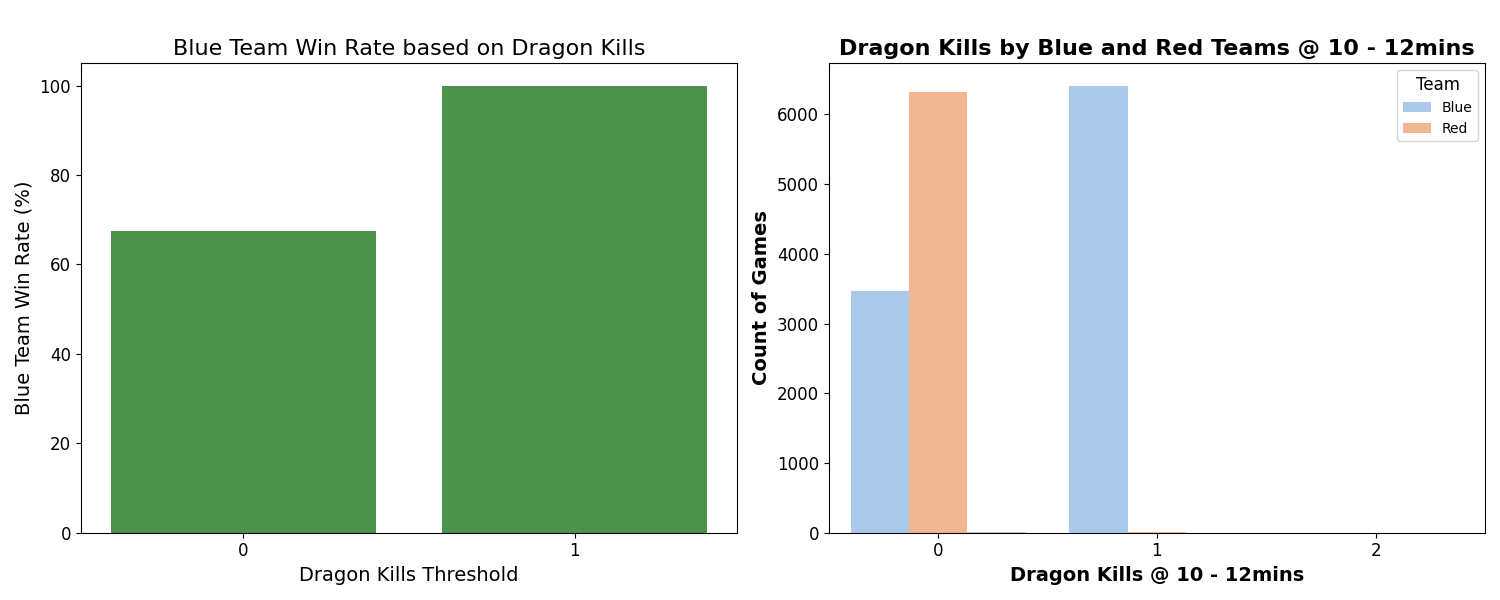
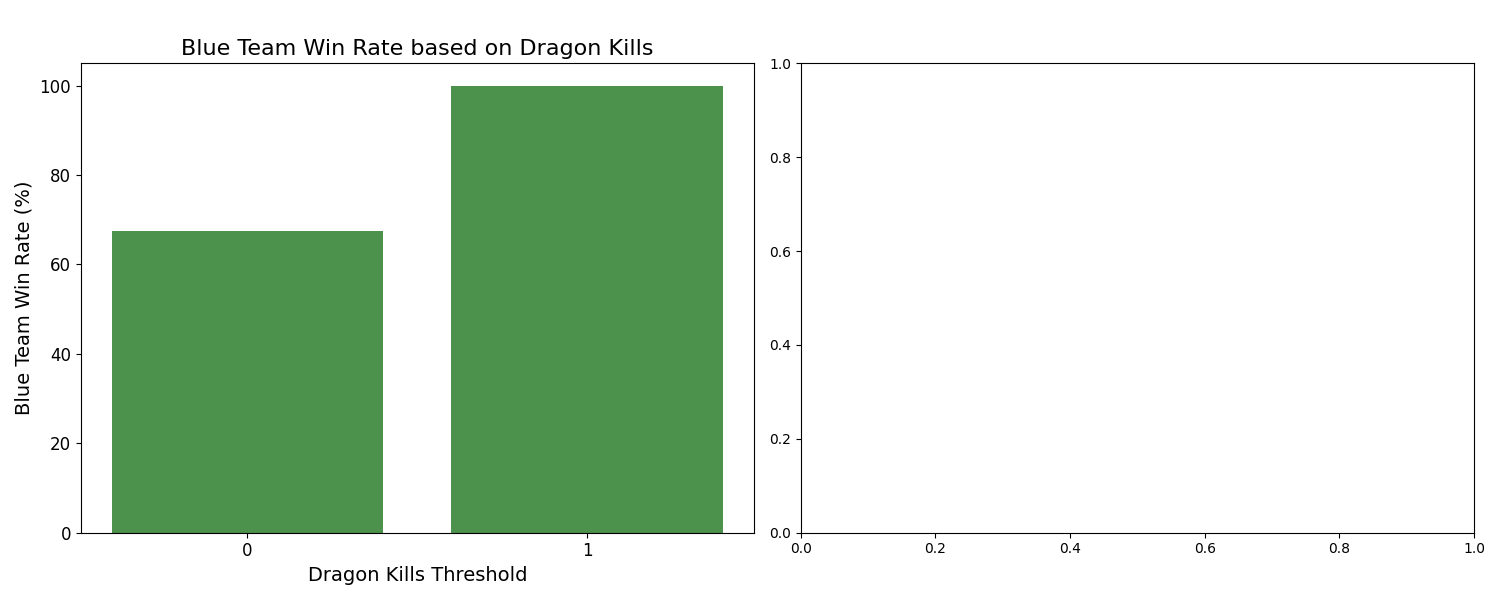
project complete

diff --git a/analyze_data.py b/analyze_data.py
@@ -5,19 +5,43 @@ import matplotlib.pyplot as plt
 import matplotlib.ticker as mtick
 import seaborn as sns
 from statsmodels.nonparametric.smoothers_lowess import lowess
+import altair as alt
 # Load the dataset
 #data = pd.read_csv('datasets/timeBased/full_data_40.csv')
 data = pd.read_csv('22-375minof40%.csv')
 
 # plots of red team vs blue team
 def RedVsBlue():
-    # Histogram Count for 'blueTotalGold' and 'redTotalGold'
     
-    plt.figure(figsize=(16, 8))
-    gs = gridspec.GridSpec(2, 2, width_ratios=[2, 2], height_ratios=[2, 2])
+    # Define the thresholds (e.g., starting from 0 and increasing by 200 for both teams)
+    thresholds = range(-7000, 9000, 600)
+
+    # Initialize lists to store win rates and corresponding thresholds for both blue and red teams
+    blue_win_rates = []
+    red_win_rates = []
+    gold_diffs = []
+
+    # Calculate win rates and gold differences for each threshold
+    for threshold in thresholds:
+        blue_condition = data['GoldDiff'] > threshold
+        red_condition = data['GoldDiff'] < -threshold  # Considering negative gold differences for the red team
+        blue_win_rate = data[blue_condition]['blueWin'].mean() * 100
+        red_win_rate = data[red_condition]['redWin'].mean() * 100
+        blue_win_rates.append(blue_win_rate)
+        red_win_rates.append(red_win_rate)
+        gold_diffs.append(threshold)
+
+    # Create DataFrames from the lists
+    blue_data_for_line_plot = pd.DataFrame({'GoldDiff': gold_diffs, 'BlueWinRate': blue_win_rates})
+    red_data_for_line_plot = pd.DataFrame({'GoldDiff': gold_diffs, 'RedWinRate': red_win_rates})
+
+
+        # Histogram Count for 'blueTotalGold' and 'redTotalGold'
+    plt.figure(figsize=(16, 12))
+    gs = gridspec.GridSpec(3, 2, width_ratios=[2, 2], height_ratios=[2, 2, 2])
 
     # Subplot for 'blueTotalGold'
-    plt.subplot(gs[0])
+    plt.subplot(gs[0, 0])
     plt.hist(x=data['blueTotalGold'], bins=80, color='skyblue', edgecolor='black')
     plt.yticks(fontsize=14)
     plt.xticks(fontsize=14)
@@ -26,24 +50,44 @@ def RedVsBlue():
     plt.title('Histogram of Blue Total Gold @ 10 - 12mins', fontsize=16, fontweight='bold')
 
     # Subplot for 'redTotalGold'
-    plt.subplot(gs[1])
+    plt.subplot(gs[0, 1])
     plt.hist(x=data['redTotalGold'], bins=80, color='lightcoral', edgecolor='black')
     plt.yticks(fontsize=14)
     plt.xticks(fontsize=14)
     plt.xlabel('Red Total Gold @ 10 - 12mins', fontsize=14)
     plt.ylabel('Count of Games', fontsize=14)
     plt.title('Histogram of Red Total Gold @ 10 - 12mins', fontsize=16, fontweight='bold')
-    
+
     # Scatter plot for Gold
-    plt.subplot(gs[2:])
+    plt.subplot(gs[1, :])
     sns.set_palette("deep")
     sns.scatterplot(x='blueTotalGold', y='redTotalGold', hue='blueWin', data=data, size='blueWin', sizes=[50, 150])
     plt.title('Blue vs. Red in Gold @ 10 - 12mins', fontsize=18, fontweight='bold')
     plt.xlabel('Blue Team Total Gold', fontsize=16)
     plt.ylabel('Red Team Total Gold', fontsize=16)
     plt.legend(title='Team', title_fontsize='12', loc='upper right', labels=['Blue', 'Red'])
-    plt.tight_layout()  # Adjust layout to prevent overlapping
-    plt.savefig('BlueVsRedGold.png')
+
+    # Line plot for blue team
+    plt.subplot(gs[2, 0])
+    sns.lineplot(x='GoldDiff', y='BlueWinRate', marker='o', data=blue_data_for_line_plot, color='blue')
+    plt.title('Blue Team Win Rates based on Gold Difference', fontsize=16)
+    plt.xlabel('Gold Difference', fontsize=14)
+    plt.ylabel('Blue Team Win Rate (%)', fontsize=14)
+    plt.xticks(rotation=90)
+    plt.tick_params(axis='both', labelsize=12)
+
+    # Line plot for red team
+    plt.subplot(gs[2, 1])
+    sns.lineplot(x='GoldDiff', y='RedWinRate', marker='o', data=red_data_for_line_plot, color='red')
+    plt.title('Red Team Win Rates based on Gold Difference', fontsize=16)
+    plt.xlabel('Gold Difference', fontsize=14)
+    plt.ylabel('Red Team Win Rate (%)', fontsize=14)
+    plt.xticks(rotation=90)
+    plt.tick_params(axis='both', labelsize=12)
+
+    # Adjust layout and save the plot
+    plt.tight_layout(rect=[0, 0, 1, 0.96])
+    plt.savefig("RedVsBlue_Gold_Difference.png")
     
 
 
@@ -124,50 +168,8 @@ def ChampionKills():
     plt.tight_layout(rect=[0, 0, 1, 0.96])
     plt.savefig("ChampionKill_Difference_Thresholds_LinePlot_Subplots.png")
 
-def GoldDiff():
-    # Define the thresholds (e.g., starting from 0 and increasing by 200 for both teams)
-    thresholds = range(-7000, 9000, 600)
 
-    # Initialize lists to store win rates and corresponding thresholds for both blue and red teams
-    blue_win_rates = []
-    red_win_rates = []
-    gold_diffs = []
-
-    # Calculate win rates and gold differences for each threshold
-    for threshold in thresholds:
-        blue_condition = data['GoldDiff'] > threshold
-        red_condition = data['GoldDiff'] < -threshold  # Considering negative gold differences for the red team
-        blue_win_rate = data[blue_condition]['blueWin'].mean() * 100
-        red_win_rate = data[red_condition]['redWin'].mean() * 100
-        blue_win_rates.append(blue_win_rate)
-        red_win_rates.append(red_win_rate)
-        gold_diffs.append(threshold)
-
-    # Create DataFrames from the lists
-    blue_data_for_line_plot = pd.DataFrame({'GoldDiff': gold_diffs, 'BlueWinRate': blue_win_rates})
-    red_data_for_line_plot = pd.DataFrame({'GoldDiff': gold_diffs, 'RedWinRate': red_win_rates})
-
-    # Create subplots
-    fig, axes = plt.subplots(2, 1, figsize=(12, 12))
-
-    # Line plot for blue team
-    sns.lineplot(x='GoldDiff', y='BlueWinRate', marker='o', data=blue_data_for_line_plot, color='blue', ax=axes[0])
-    axes[0].set_title('Blue Team Win Rates based on Gold Difference', fontsize=16)
-    axes[0].set_xlabel('Gold Difference', fontsize=14)
-    axes[0].set_ylabel('Blue Team Win Rate (%)', fontsize=14)
-    axes[0].tick_params(axis='x', rotation=90)
-    axes[0].tick_params(axis='both', labelsize=12)
-
-    # Line plot for red team
-    sns.lineplot(x='GoldDiff', y='RedWinRate', marker='o', data=red_data_for_line_plot, color='red', ax=axes[1])
-    axes[1].set_title('Red Team Win Rates based on Gold Difference', fontsize=16)
-    axes[1].set_xlabel('Gold Difference', fontsize=14)
-    axes[1].set_ylabel('Red Team Win Rate (%)', fontsize=14)
-    axes[1].tick_params(axis='x', rotation=90)
-    axes[1].tick_params(axis='both', labelsize=12)
-    # Adjust layout and save the plot
-    plt.tight_layout(rect=[0, 0, 1, 0.96])
-    plt.savefig("Gold_Difference_Thresholds_LinePlot_Subplots.png")
+    
 
 
 def DragonKills():
@@ -179,6 +181,7 @@ def DragonKills():
 
     # Bar plot for Blue Team Win Rate based on Dragon Kills Thresholds
     win_rates = [data[data['blueDragonKill'] > threshold]['blueWin'].mean() * 100 for threshold in thresholds]
+    print(win_rates)
     axes[0].bar(thresholds, win_rates, color='darkgreen', alpha=0.7)
     axes[0].set_title('Blue Team Win Rate based on Dragon Kills', fontsize=16)
     axes[0].set_xlabel('Dragon Kills Threshold', fontsize=14)
@@ -186,18 +189,41 @@ def DragonKills():
     axes[0].set_xticks(thresholds)
     axes[0].tick_params(axis='both', labelsize=12)
 
-    # Count Plot for 'blueDragonKill' and 'redDragonKill'
-    colors = sns.color_palette("pastel")[:2]  # Limiting to two distinct colors
-    sns.countplot(x='blueDragonKill', hue='redDragonKill', data=data, palette=colors, ax=axes[1])
-    axes[1].set_xlabel('Dragon Kills @ 10 - 12mins', fontsize=14, fontweight='bold')
-    axes[1].set_ylabel('Count of Games', fontsize=14, fontweight='bold')
-    axes[1].set_title('Dragon Kills by Blue and Red Teams @ 10 - 12mins', fontsize=16, fontweight='bold')
-    axes[1].legend(title='Team', title_fontsize='12', loc='upper right', labels=['Blue', 'Red'])
-    axes[1].tick_params(axis='both', labelsize=12)
+    # Altair Plot
+    chart = alt.Chart(data).mark_bar().encode(
+        x=alt.X('DragonKillsDiff:Q', scale=alt.Scale(domain=[-2, 2])),
+        y=alt.Y('count()'),
+        tooltip='count()'
+    )
 
-    # Adjust layout and save the plot
+    condition_1 = chart.transform_filter(
+        alt.datum.DragonKillsDiff < 0
+    ).encode(
+        color=alt.value('red')
+    )
+
+    condition_2 = chart.transform_filter(
+        alt.datum.DragonKillsDiff > 0
+    ).encode(
+        color=alt.value('blue')
+    )
+
+    condition_else = chart.transform_filter(
+        alt.datum.DragonKillsDiff == 0
+    ).encode(
+        color=alt.value('gray')
+    )
+
+    combined_chart = (condition_1 + condition_2 + condition_else)
+
+    # Save both plots side by side
+    plt.savefig("Combined_Plots.png")
+    
+    # Save Altair plot
+    combined_chart.save('Combined_Plots.png', scale_factor=1.0)
+
+    # Adjust layout and show the plot
     plt.tight_layout(rect=[0, 0, 1, 0.96])
-    plt.savefig("Dragon_Kills_Subplots.png")
 
 
 
@@ -346,7 +372,6 @@ def main():
 
     minionsKilledTotal()
     DragonKills()
-    GoldDiff()
     ChampionKills()
     RedVsBlue()
 

diff --git a/lr.py b/lr.py
@@ -67,34 +67,40 @@ y_probs = logistic_regression_model.predict_proba(X_test)[:, 1]
 fpr, tpr, thresholds = roc_curve(y_test, y_probs)
 roc_auc = auc(fpr, tpr)
 
-plt.figure(figsize=(8, 6))
+# Plot Precision-Recall curve
+precision, recall, _ = precision_recall_curve(y_test, y_probs)
+
+# Plot Accuracy vs. Threshold
+thresholds = np.linspace(0, 1, 100)
+accuracies = [accuracy_score(y_test, y_probs >= thr) for thr in thresholds]
+
+plt.figure(figsize=(18, 6))
+
+# Plot ROC Curve
+plt.subplot(1, 3, 1)
 plt.plot(fpr, tpr, color='darkorange', lw=2, label=f'AUC = {roc_auc:.2f}')
 plt.plot([0, 1], [0, 1], color='navy', lw=2, linestyle='--')
 plt.xlabel('False Positive Rate')
 plt.ylabel('True Positive Rate')
 plt.title('ROC Curve')
 plt.legend(loc="lower right")
-plt.savefig(os.path.join(output_folder, 'ROC Curve.png'))
 
-# Plot Precision-Recall curve
-precision, recall, _ = precision_recall_curve(y_test, y_probs)
-
-plt.figure(figsize=(8, 6))
+# Plot Precision-Recall Curve
+plt.subplot(1, 3, 2)
 plt.plot(recall, precision, color='green', lw=2, label='Precision-Recall curve')
 plt.xlabel('Recall')
 plt.ylabel('Precision')
 plt.title('Precision-Recall Curve')
 plt.legend(loc="lower right")
-plt.savefig(os.path.join(output_folder, 'Precision-Recall Curve.png'))
 
-# Plot Accuracy
-thresholds = np.linspace(0, 1, 100)
-accuracies = [accuracy_score(y_test, y_probs >= thr) for thr in thresholds]
-
-plt.figure(figsize=(8, 6))
+# Plot Accuracy vs. Threshold
+plt.subplot(1, 3, 3)
 plt.plot(thresholds, accuracies, color='purple', lw=2, label='Accuracy')
 plt.xlabel('Threshold')
 plt.ylabel('Accuracy')
 plt.title('Accuracy vs. Threshold')
 plt.legend(loc="lower right")
-plt.savefig(os.path.join(output_folder, 'Accuracy vs. Threshold.png'))
+
+# Save the combined plot
+plt.tight_layout(rect=[0, 0, 1, 0.96])
+plt.savefig(os.path.join(output_folder, 'Combined_Plots.png'))

diff --git a/DataProcessing.py b/DataProcessing.py
@@ -2,19 +2,7 @@ import pandas as pd
 import numpy as np
 import matplotlib.pyplot as plt
 import seaborn as sns
-import os
 
-
-output_folder = "TimeBasedChecks"
-os.makedirs(output_folder, exist_ok=True)
-
-def save_bar_plot(missing_values, dataset_name, cleaning_status):
-    plt.figure(figsize=(8, 12))
-    plt.bar(missing_values.index, missing_values)
-    plt.title(f"Missing Values in {dataset_name}{cleaning_status} Cleaning")
-    plt.xticks(rotation='vertical')  # Rotate x-axis labels
-    plt.savefig(f"{output_folder}/blue{dataset_name.replace(' ', '')}{cleaning_status}.png")
-    plt.close()
     
 def main():
     
@@ -31,18 +19,12 @@ def main():
 
     # Check for missing values in the dataset
     missing_values_of_twenty = data.isnull().sum()
-    save_bar_plot(missing_values_of_twenty, "Game Data", "Before")
+    print(missing_values_of_twenty, "Game Data")
 
     # Drop rows with missing values in each dataset
     data = data.dropna()
     data = data.drop_duplicates()
-
-    # Check for missing values after cleaning
-    missing_values_after = data.isnull().sum()
-    save_bar_plot(missing_values_after, "Data", "After")
     
-    #checking the average of about how long each game is
-    #print(data['fullTimeMS'].mean())
     
     
     # adding a new column called fullTimeMin so the game duration is in mins instead of ms

diff --git a/README.md b/README.md
@@ -6,6 +6,8 @@
 * pip3 install matplotlib
 * pip3 install seaborn
 * pip3 install statsmodels
+* pip3 install vl-convert-python
+* pip3 install altair vega_datasets
 
 ## Data Processing
 -  Loading datasets with 65k games and selected columns.
@@ -37,7 +39,7 @@ The project will include a training and modeling aspect to enhance predictive ca
 ## Usage
 1. Clone the repository to your local machine.
 2. Install the required Python libraries using the provided commands.
-3. Run the project python scripts
+3. Run the project python scripts DataProcessing.py --> analyze_data.py and then either models, order doesn't matter
 
 ## Contributors
 - Tanjodh Hayer
